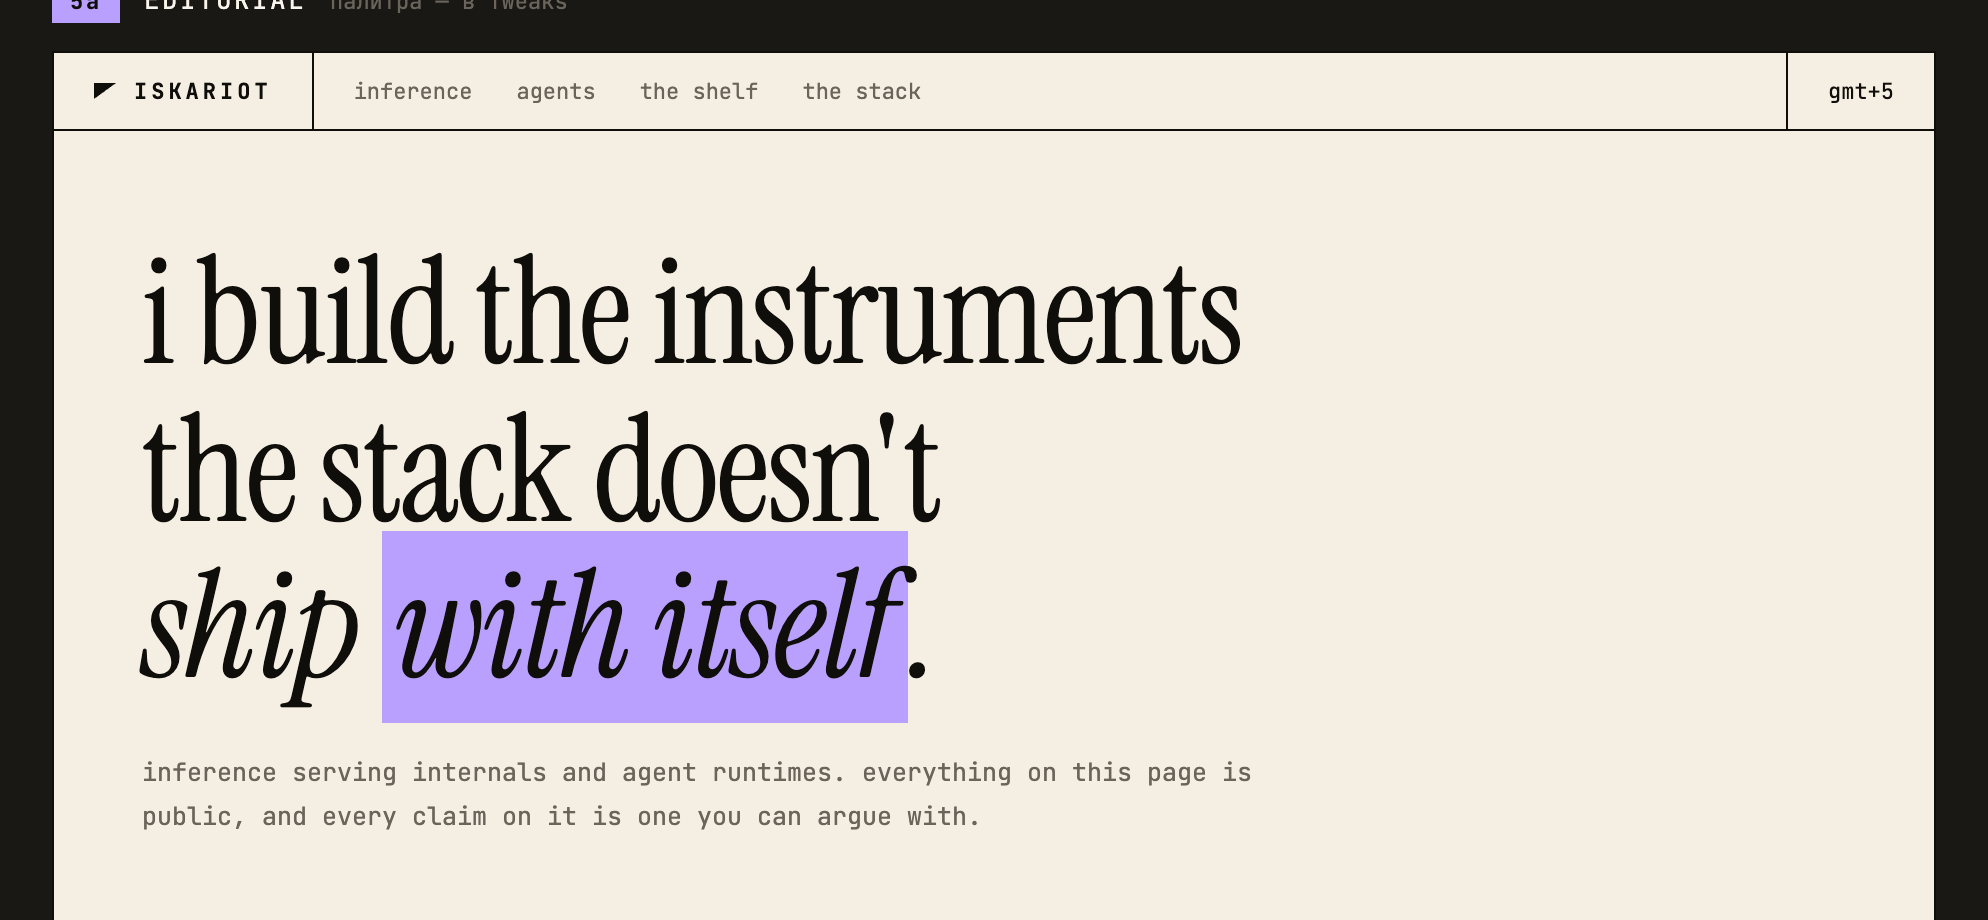
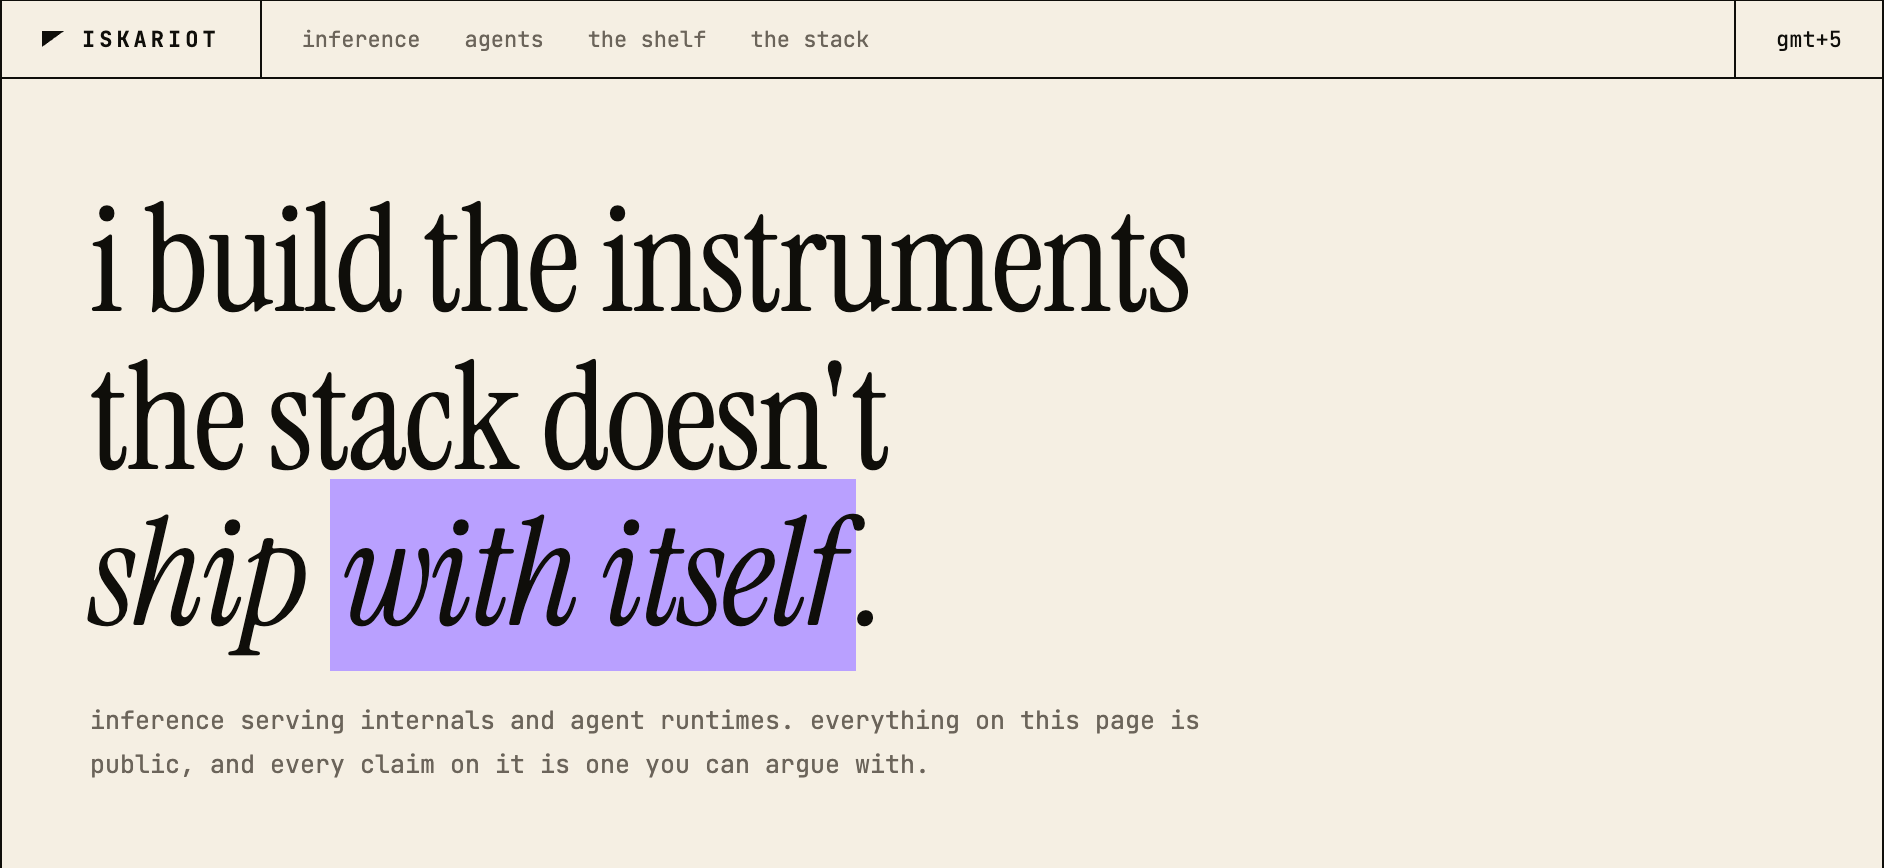
One continuous sheet: drop the dark seams, kill the design-tool artifact, wire the buttons
Slices now cut on the sheet's exact bounding box, so no page background
bleeds into the joins, and the capture starts below the '5a EDITORIAL'
label the design tool draws outside the sheet.

The telegram and all-repos buttons are hidden in the closing plate and
shot separately, so they carry real anchors; the shelf links to the
repository list.

Changed region(s): [[0.0, 0.0, 1.0, 1.0]]

diff --git a/README.md b/README.md
@@ -1,17 +1,5 @@
-![Iskariot — AI systems engineer. I build the instruments the stack doesn't ship with itself. Inference serving internals and agent runtimes. Everything on this page is public, and every claim on it is one you can argue with.](assets/01-hero.png)
+<div align="center"><img alt="Iskariot — AI systems engineer. I build the instruments the stack doesn't ship with itself. Inference serving internals and agent runtimes. Everything on this page is public, and every claim on it is one you can argue with." src="assets/01-hero.png" width="100%"><img alt="FIG. 01 — three regimes of the same serving engine. A radix prefix tree that grows and evicts, an in-flight batch that never drains between requests, speculative decode whose accept rate moves with the load, and a fleet that scales on queue depth rather than CPU. Cold, warm and under load, with the scheduler log underneath." src="assets/02-figs.gif" width="100%"><img alt="FIG. 02 — the desk. claude-quant across one unattended session: four acts on four instruments, four different formulas, three positions, one refusal and one loss. Every position traces to a DEC carrying the proof that produced its size; a position with no DEC cannot exist." src="assets/03-desk.gif" width="100%"><a href="https://github.com/Isk4R1oT?tab=repositories"><img alt="the shelf — vernier: records N runs at the model-API wire and names the first divergent step. edp: explicit decision protocol, constraints re-read every turn. ctx: htop for LLM prompts. vecdoctor: EXPLAIN ANALYZE for your vector store. claude-quant: a full agent system you can read end to end. assay, mcpgen and plinth: an eval harness hard to game, an MCP server generated from any API, and hosting that meters and bills black-box agents." src="assets/04-shelf.png" width="100%"></a><img alt="positions I'd defend, and the stack. On serving and inference: benchmark at the batch sizes you will actually serve; longest-prefix routing is a scheduling decision before it is a memory one; speculative decoding has no single speedup number; quantization is only free if you measured what it broke; the cheapest throughput came from the scheduler, not the kernel; same seed at temperature 0 is not reproducible unless batch composition is pinned; a GPU is a budget line, not a resource. On agent runtimes: decision drift is confident self-contradiction, not forgetting; an agent that cannot refuse itself is not safe to leave running; a number acted on should be computed in a sandbox, not asserted in prose; anything read through a tool is data and never acquires instruction privileges; long-horizon memory is an eviction policy wearing the costume of a database; a model upgrade is a regression event until golden tasks are replayed. The stack spans SGLang and vLLM, disaggregated prefill and decode, cache-aware routing, quantization and speculative decoding, the Claude Agent SDK, LangGraph, MCP and FastMCP, retrieval, evaluation, isolation, Kubernetes-native serving and classic ML. What a number has to survive: load tested at matched concurrency against a naive baseline, judged by a rubric calibrated on human reference, costed per 1M tokens at matched quality, and scored on a golden set that predates the change it judges." src="assets/05-close.png" width="100%">
 
-![FIG. 01 — three regimes of the same serving engine. A radix prefix tree that grows and evicts, an in-flight batch that never drains between requests, speculative decode whose accept rate moves with the load, and a fleet that scales on queue depth rather than CPU. Cold, warm and under load, with the scheduler log underneath.](assets/02-pipeline.gif)
+<a href="https://t.me/Ig0Ro4"><img alt="telegram" src="assets/btn-telegram.png" height="40"></a>&nbsp;&nbsp;<a href="https://github.com/Isk4R1oT?tab=repositories"><img alt="all repos" src="assets/btn-repos.png" height="40"></a>
 
-![FIG. 02 — the desk. claude-quant across one unattended session: four acts on four instruments, four different formulas, three positions, one refusal and one loss. Every position traces to a DEC carrying the proof that produced its size; a position with no DEC cannot exist.](assets/03-desk.gif)
-
-![the shelf — vernier: records N runs at the model-API wire and names the first divergent step. edp: explicit decision protocol, constraints re-read every turn. ctx: htop for LLM prompts. vecdoctor: EXPLAIN ANALYZE for your vector store. claude-quant: a full agent system you can read end to end. assay, mcpgen and plinth: an eval harness hard to game, an MCP server generated from any API, and hosting that meters and bills black-box agents.](assets/04-shelf.png)
-
-**[vernier](https://github.com/Isk4R1oT/vernier)** · **[edp](https://github.com/Isk4R1oT/edp)** · **[ctx](https://github.com/Isk4R1oT/ctx)** · **[vecdoctor](https://github.com/Isk4R1oT/vecdoctor)** · **[claude-quant](https://github.com/Isk4R1oT/claude-quant)** · **[plinth](https://github.com/Isk4R1oT/Plinth)** · [everything else](https://github.com/Isk4R1oT?tab=repositories)
-
-![positions I'd defend — on serving and inference: benchmark at the batch sizes you will actually serve; longest-prefix routing is a scheduling decision before it is a memory one; speculative decoding has no single speedup number; quantization is only free if you measured what it broke; the cheapest throughput came from the scheduler, not the kernel; same seed at temperature 0 is not reproducible unless batch composition is pinned; a GPU is a budget line, not a resource. On agent runtimes: decision drift is confident self-contradiction, not forgetting; an agent that cannot refuse itself is not safe to leave running; a number acted on should be computed in a sandbox, not asserted in prose; tool arguments are validated before dispatch; anything read through a tool is data and never acquires instruction privileges; long-horizon memory is an eviction policy wearing the costume of a database; a model upgrade is a regression event until golden tasks are replayed.](assets/05-positions.png)
-
-![the stack — serving and inference: SGLang, vLLM, disaggregated prefill and decode, cache-aware routing, hierarchical KV offload, GPTQ, AWQ, INT8, FP8, speculative decoding, tensor and expert parallelism, FlashAttention, Triton, CUDA graphs, Nsight. Agents and tooling: Claude Agent SDK, LangGraph, MCP and FastMCP, PydanticAI, meta-agents, supervisor and fan-out orchestration, multi-model routing, code-execution-as-tool. Long-horizon memory, retrieval, evaluation, security and isolation, infrastructure and reliability, data and hardware, and classic ML, DL, CV and NLP.](assets/06-stack.png)
-
-![what a number has to survive — before I believe a result of mine it is load tested at matched concurrency against a naive baseline, judged by a rubric calibrated on human reference and paired against the pre-change run, costed per 1M tokens at matched quality with break-even against real load, and scored on a golden set that predates the change it judges. Tell me the standard you hold and I'll bring numbers that meet it.](assets/07-standard.png)
-
-<sub>GMT+5 · happy to argue about any line above · <a href="https://t.me/Ig0Ro4">telegram</a> · <a href="https://github.com/Isk4R1oT?tab=repositories">all repos</a></sub>
+</div>
